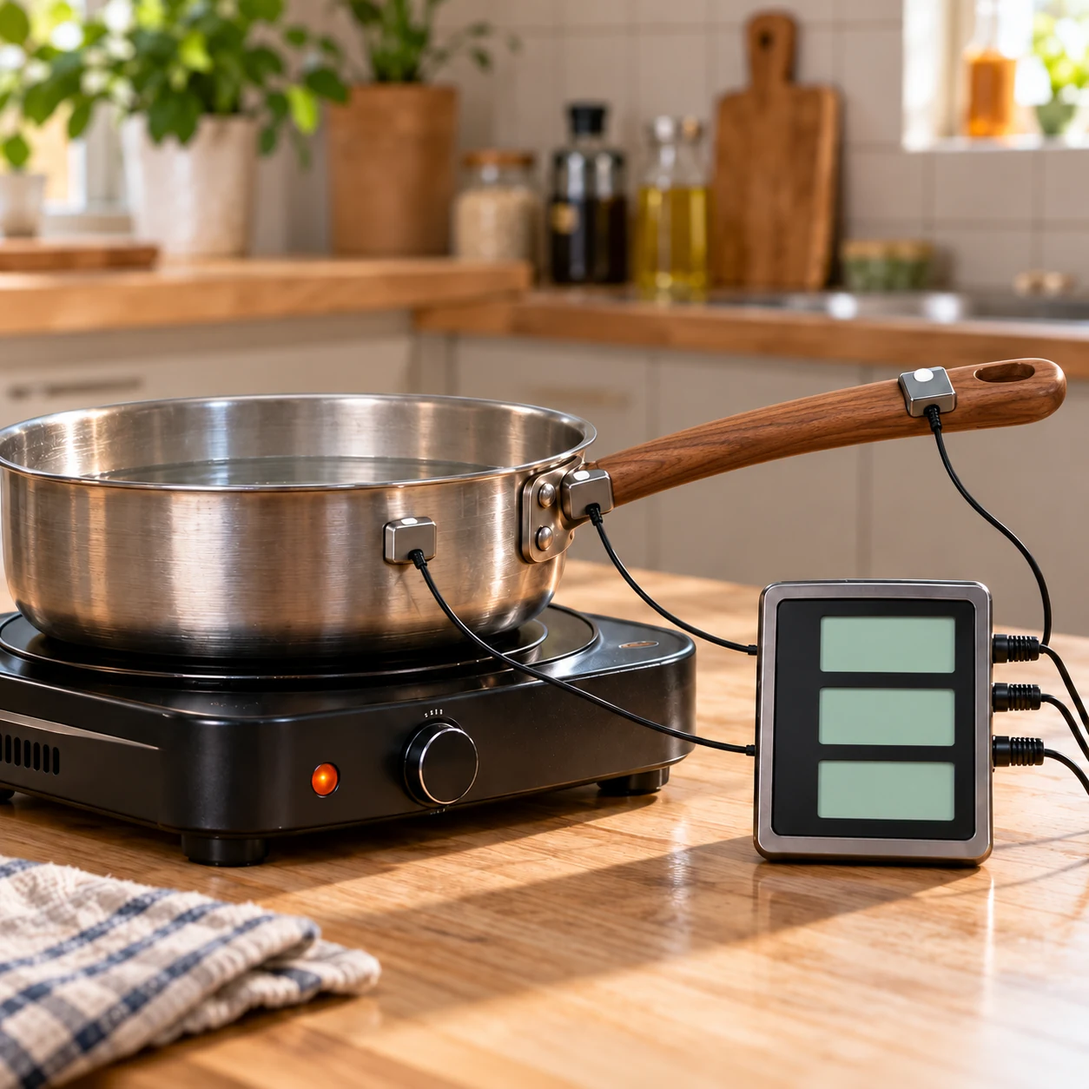
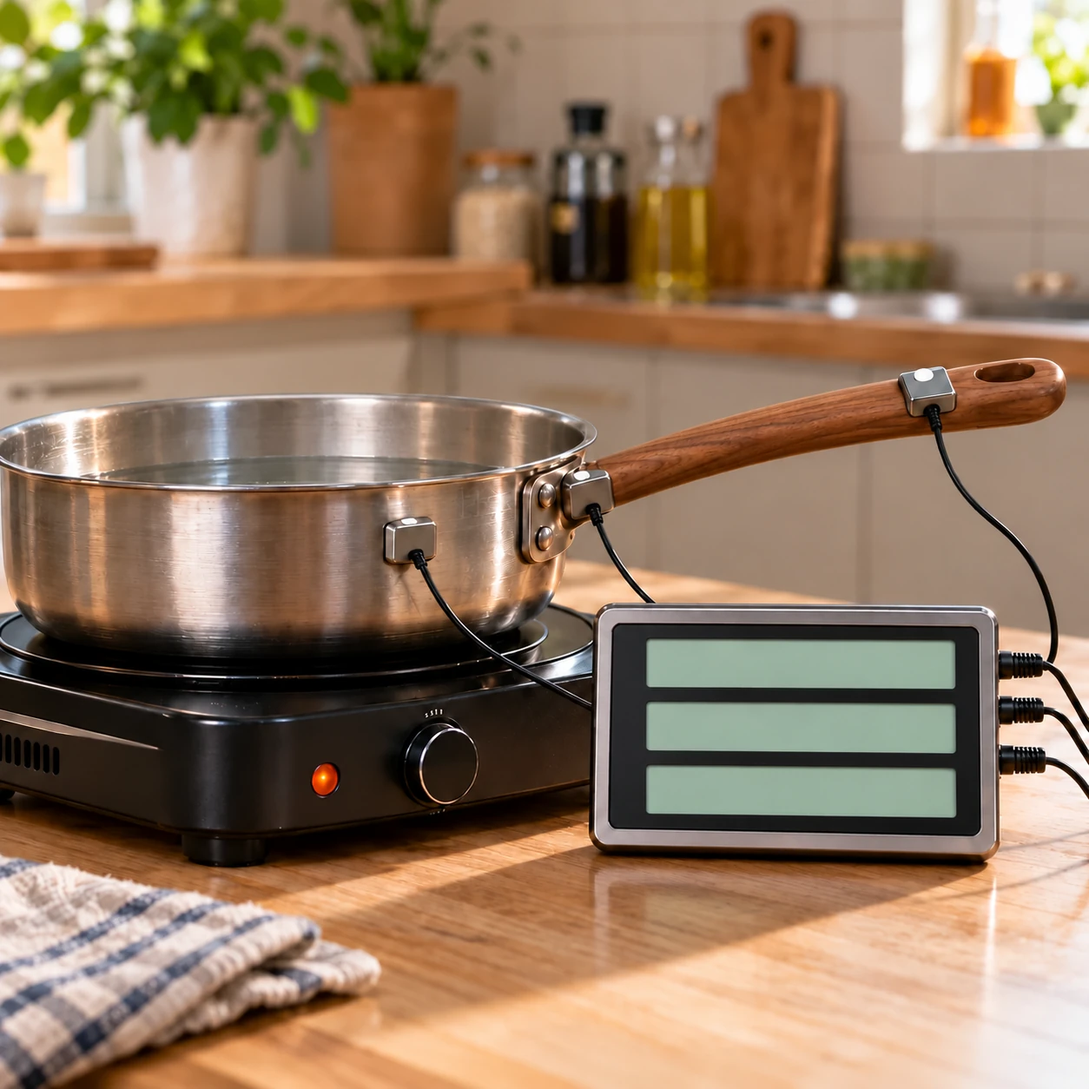
加寬5.2讀數器並直接標示測溫位置

Changed region(s): [[0.3421, 0.5287, 1.0, 0.9019], [0.5287, 0.4043, 0.5598, 0.4354], [0.4976, 0.4354, 0.5287, 0.4665]]

diff --git a/units/5/parts/5.2/index.html b/units/5/parts/5.2/index.html
@@ -1,4 +1,4 @@
-<!doctype html><html lang="zh-Hant"><head><meta charset="utf-8"><meta name="viewport" content="width=device-width,initial-scale=1"><meta name="description" content="從熱水變涼與冷水變暖出發，探索熱傳方向、熱平衡、傳導、對流、輻射與保溫。"><title>熱如何傳遞？｜溫度與熱 5.2</title><link rel="icon" href="data:,"><link rel="stylesheet" href="assets/lesson-base.css"><link rel="stylesheet" href="assets/lesson-layout.css?v=lesson-columns-1"><link rel="stylesheet" href="assets/heat-transfer.css"><link rel="stylesheet" href="assets/direction-lab.css?v=direction-label-colors-8"><link rel="stylesheet" href="assets/balance-lab.css?v=single-scenario-4"><link rel="stylesheet" href="assets/conduction-lab.css?v=pan-controls-paired-6"></head><body><header class="shell masthead"><div class="brand-row"><a class="brand" href="../../index.html">← 溫度與熱</a><span class="crumb">國二上・熱的傳遞</span></div></header><main class="shell lesson"><div class="lesson-layout"><nav class="route" aria-label="學習區塊導覽"><p class="route-label">學習路線</p><div class="route-inner"><a href="#card-01" aria-current="step"><b>01</b><span>同樣的兩杯水，在不同環境會怎麼變？</span></a><a href="#card-02"><b>02</b><span>一熱一冷靠在一起，最後會怎樣？</span></a><a href="#card-03"><b>03</b><span>鍋底受熱，把手為什麼也變暖？</span></a><a href="#card-04"><b>04</b><span>水和空氣怎麼把熱帶走？</span></a><a href="#card-05"><b>05</b><span>沒有碰到，也能傳熱嗎？</span></a><a href="#card-06"><b>06</b><span>怎麼讓熱水慢一點變涼？</span></a><a href="#unit-quiz" class="quiz-nav"><b>✦</b><span>保冷水壺小測</span></a></div></nav><div class="cards"><div class="hero"><div class="hero-copy"><div class="eyebrow">國二上・理化　／　學習內容 5.2</div><h1>熱水變涼了，熱往哪裡去了？</h1><p>小葵剛替兩杯水記下溫度，整理了幾樣器材，熱水和冷水的讀值就變了。她想知道水和周圍發生了什麼事，也想找出讓水溫維持久一點的方法。阿公提議，先追蹤溫度的變化，再找出熱傳遞的路徑。</p></div><figure class="hero-art"><img src="../5.1/assets/temperature-story-opening.webp" alt="小葵和阿公在科學桌前觀察水杯與溫度計，準備比較溫度如何改變。"><figcaption class="hero-caption">量出溫度之後，繼續追蹤熱的方向與路徑。</figcaption></figure></div><div class="section-top"><h2>從溫度變化，找到熱傳遞的路徑</h2><span class="progress-copy">六個學習區塊・一個單元小測</span></div><section class="lesson-card" id="card-01" aria-labelledby="title-01"><div class="card-side"><span class="card-number">01</span><h3>熱往哪裡傳？</h3><span class="card-role">比較水與環境的溫度</span></div><div class="card-main"><h2 id="title-01">同樣的兩杯水，在不同環境會怎麼變？</h2><p class="card-intro">先比較水與環境的溫度，再看熱往哪裡傳。</p><div class="dialogue dialogue--xiaokui"><span class="speaker" aria-label="小葵"></span><p>「在房間裡，熱水變涼、冷水變暖；可是冷水放進冰箱，卻會更冷耶！」</p></div><div class="dialogue"><span class="speaker" aria-label="阿公"></span><p>「同樣是冷水，周圍的溫度不同，變化就不一樣。如果周圍比熱水還熱，又會怎樣呢？」</p></div><div class="lab-panel direction-panel" id="direction-lab" data-environment="25" data-phase="ready" data-playing="false"><header class="direction-scene-heading"><h3><span id="direction-scene-name">房間</span> <span id="direction-environment">25°C</span></h3></header><div class="direction-toolbar"><span class="control-label">環境溫度</span><div class="direction-environments" role="group" aria-label="選擇環境溫度"><button type="button" data-environment="5" aria-label="冷藏室 5°C" aria-pressed="false">5°C</button><button type="button" data-environment="25" aria-label="房間 25°C" aria-pressed="true">25°C</button><button type="button" data-environment="70" aria-label="高溫箱 70°C" aria-pressed="false">70°C</button></div></div><div class="direction-views"><div class="direction-cup-view" data-cup="A"><div class="direction-photo"><img class="direction-scene-image" src="assets/direction-room-glass.webp" width="1944" height="809" alt="房間中自然放置的水杯 A" decoding="async"><svg viewBox="0 0 600 500" class="direction-overlay" role="img" aria-labelledby="direction-thermometer-title-hot direction-hot" aria-describedby="direction-hot-flow"><title id="direction-thermometer-title-hot">水杯 A 的攝氏溫度計，刻度 0 至 80°C，每小格 1°C。</title><text class="direction-cup-letter" x="482" y="347" text-anchor="middle">A</text><g class="direction-flow-group" id="direction-flow-hot" hidden>
+<!doctype html><html lang="zh-Hant"><head><meta charset="utf-8"><meta name="viewport" content="width=device-width,initial-scale=1"><meta name="description" content="從熱水變涼與冷水變暖出發，探索熱傳方向、熱平衡、傳導、對流、輻射與保溫。"><title>熱如何傳遞？｜溫度與熱 5.2</title><link rel="icon" href="data:,"><link rel="stylesheet" href="assets/lesson-base.css"><link rel="stylesheet" href="assets/lesson-layout.css?v=lesson-columns-1"><link rel="stylesheet" href="assets/heat-transfer.css"><link rel="stylesheet" href="assets/direction-lab.css?v=direction-label-colors-8"><link rel="stylesheet" href="assets/balance-lab.css?v=single-scenario-4"><link rel="stylesheet" href="assets/conduction-lab.css?v=wide-meter-7"></head><body><header class="shell masthead"><div class="brand-row"><a class="brand" href="../../index.html">← 溫度與熱</a><span class="crumb">國二上・熱的傳遞</span></div></header><main class="shell lesson"><div class="lesson-layout"><nav class="route" aria-label="學習區塊導覽"><p class="route-label">學習路線</p><div class="route-inner"><a href="#card-01" aria-current="step"><b>01</b><span>同樣的兩杯水，在不同環境會怎麼變？</span></a><a href="#card-02"><b>02</b><span>一熱一冷靠在一起，最後會怎樣？</span></a><a href="#card-03"><b>03</b><span>鍋底受熱，把手為什麼也變暖？</span></a><a href="#card-04"><b>04</b><span>水和空氣怎麼把熱帶走？</span></a><a href="#card-05"><b>05</b><span>沒有碰到，也能傳熱嗎？</span></a><a href="#card-06"><b>06</b><span>怎麼讓熱水慢一點變涼？</span></a><a href="#unit-quiz" class="quiz-nav"><b>✦</b><span>保冷水壺小測</span></a></div></nav><div class="cards"><div class="hero"><div class="hero-copy"><div class="eyebrow">國二上・理化　／　學習內容 5.2</div><h1>熱水變涼了，熱往哪裡去了？</h1><p>小葵剛替兩杯水記下溫度，整理了幾樣器材，熱水和冷水的讀值就變了。她想知道水和周圍發生了什麼事，也想找出讓水溫維持久一點的方法。阿公提議，先追蹤溫度的變化，再找出熱傳遞的路徑。</p></div><figure class="hero-art"><img src="../5.1/assets/temperature-story-opening.webp" alt="小葵和阿公在科學桌前觀察水杯與溫度計，準備比較溫度如何改變。"><figcaption class="hero-caption">量出溫度之後，繼續追蹤熱的方向與路徑。</figcaption></figure></div><div class="section-top"><h2>從溫度變化，找到熱傳遞的路徑</h2><span class="progress-copy">六個學習區塊・一個單元小測</span></div><section class="lesson-card" id="card-01" aria-labelledby="title-01"><div class="card-side"><span class="card-number">01</span><h3>熱往哪裡傳？</h3><span class="card-role">比較水與環境的溫度</span></div><div class="card-main"><h2 id="title-01">同樣的兩杯水，在不同環境會怎麼變？</h2><p class="card-intro">先比較水與環境的溫度，再看熱往哪裡傳。</p><div class="dialogue dialogue--xiaokui"><span class="speaker" aria-label="小葵"></span><p>「在房間裡，熱水變涼、冷水變暖；可是冷水放進冰箱，卻會更冷耶！」</p></div><div class="dialogue"><span class="speaker" aria-label="阿公"></span><p>「同樣是冷水，周圍的溫度不同，變化就不一樣。如果周圍比熱水還熱，又會怎樣呢？」</p></div><div class="lab-panel direction-panel" id="direction-lab" data-environment="25" data-phase="ready" data-playing="false"><header class="direction-scene-heading"><h3><span id="direction-scene-name">房間</span> <span id="direction-environment">25°C</span></h3></header><div class="direction-toolbar"><span class="control-label">環境溫度</span><div class="direction-environments" role="group" aria-label="選擇環境溫度"><button type="button" data-environment="5" aria-label="冷藏室 5°C" aria-pressed="false">5°C</button><button type="button" data-environment="25" aria-label="房間 25°C" aria-pressed="true">25°C</button><button type="button" data-environment="70" aria-label="高溫箱 70°C" aria-pressed="false">70°C</button></div></div><div class="direction-views"><div class="direction-cup-view" data-cup="A"><div class="direction-photo"><img class="direction-scene-image" src="assets/direction-room-glass.webp" width="1944" height="809" alt="房間中自然放置的水杯 A" decoding="async"><svg viewBox="0 0 600 500" class="direction-overlay" role="img" aria-labelledby="direction-thermometer-title-hot direction-hot" aria-describedby="direction-hot-flow"><title id="direction-thermometer-title-hot">水杯 A 的攝氏溫度計，刻度 0 至 80°C，每小格 1°C。</title><text class="direction-cup-letter" x="482" y="347" text-anchor="middle">A</text><g class="direction-flow-group" id="direction-flow-hot" hidden>
  <defs><filter id="direction-pulse-glow-hot" x="-100%" y="-100%" width="300%" height="300%"><feGaussianBlur stdDeviation="3"/></filter></defs>
  <text class="direction-flow-title" id="direction-title-hot" x="200" y="205" text-anchor="middle"></text>
  <text class="direction-flow-caption" id="direction-caption-hot" x="200" y="244" text-anchor="middle"></text>
@@ -211,7 +211,7 @@
       <header class="conduction-heading"><h3>追蹤鍋具的傳熱路徑</h3><p>室溫 25°C・相同加熱條件</p></header>
       <div class="conduction-layout">
         <div class="conduction-photo" id="conduction-apparatus">
-          <img id="conduction-scene" src="assets/conduction-metal.webp" width="1254" height="1254" alt="電熱板上的鍋具，金屬把手伸在加熱區外；三個接觸式探頭連到讀數器。" decoding="async">
+          <img id="conduction-scene" src="assets/conduction-metal.webp?v=wide-meter-7" width="1254" height="1254" alt="電熱板上的鍋具，金屬把手伸在加熱區外；三個接觸式探頭連到讀數器。" decoding="async">
           <svg class="conduction-overlay" viewBox="0 0 1000 1000" role="img" aria-labelledby="conduction-reading-title conduction-readings">
             <title id="conduction-reading-title">三點測溫：鍋身、金屬接頭、握柄遠端</title>
             <desc id="conduction-readings">三處皆為 25.0°C。</desc>
@@ -221,12 +221,8 @@
             </defs>
             <g class="conduction-heater-lamp" aria-hidden="true"><ellipse cx="299" cy="716" rx="13.5" ry="16" fill="#1b211e" stroke="#1b211e" stroke-width="2"/><ellipse class="conduction-lamp-lens" cx="299" cy="716" rx="11.5" ry="14"/><ellipse cx="296" cy="710" rx="2.5" ry="3.5" fill="#fff" opacity=".18"/></g>
             <g class="conduction-heater-leader" aria-hidden="true" fill="none"><path d="M402 750V805" stroke="#fffdf0" stroke-width="6"/><path d="M402 750V805" stroke="#315b40" stroke-width="2"/><circle cx="402" cy="750" r="4" fill="#315b40" stroke="#fffdf0" stroke-width="2"/></g>
-            <g class="conduction-leaders" fill="none"><path d="M240 376L376 480"/><path d="M545 294L538 431"/><path d="M846 240L849 337"/></g>
-            <g class="conduction-sensor-label"><rect x="145" y="339" width="160" height="40" rx="12"/><circle cx="169" cy="359" r="14"/><text class="conduction-label-number" x="169" y="366">1</text><text x="192" y="367">鍋身</text></g>
-            <g class="conduction-sensor-label"><rect x="445" y="254" width="207" height="40" rx="12"/><circle cx="469" cy="274" r="14"/><text class="conduction-label-number" x="469" y="281">2</text><text x="492" y="282">把手接頭</text></g>
-            <g class="conduction-sensor-label"><rect x="749" y="200" width="207" height="40" rx="12"/><circle cx="773" cy="220" r="14"/><text class="conduction-label-number" x="773" y="227">3</text><text x="796" y="228">握柄遠端</text></g>
-            <g class="conduction-channel-numbers"><circle cx="730" cy="592" r="12"/><circle cx="730" cy="658" r="12"/><circle cx="730" cy="725" r="12"/><text x="730" y="599">1</text><text x="730" y="665">2</text><text x="730" y="732">3</text></g>
-            <g class="conduction-digital"><text id="conduction-temp-body" x="815" y="602">25.0°C</text><text id="conduction-temp-joint" x="815" y="668">25.0°C</text><text id="conduction-temp-tip" x="815" y="735">25.0°C</text></g>
+            <g class="conduction-meter-labels"><text x="612" y="610">鍋身</text><text x="612" y="667">把手接頭</text><text x="612" y="726">握柄遠端</text></g>
+            <g class="conduction-digital"><text id="conduction-temp-body" x="862" y="610">25.0°C</text><text id="conduction-temp-joint" x="862" y="667">25.0°C</text><text id="conduction-temp-tip" x="862" y="726">25.0°C</text></g>
             <rect id="conduction-drop-zone" x="481" y="411" width="118" height="116" rx="25"/>
           </svg>
           <div class="conduction-scene-controls" role="group" aria-label="電熱板操作"><button type="button" class="action conduction-heater-control" id="conduction-play" aria-pressed="false">開始加熱</button><button type="button" class="secondary conduction-reset-control" id="conduction-reset">重來</button></div>
@@ -235,13 +231,13 @@
         <aside class="conduction-detail">
           <h4>接頭局部放大</h4>
           <svg class="conduction-joint" viewBox="440 350 290 180" role="img" aria-label="鍋身的金屬接頭與把手直接接觸，短光跡表示熱沿材料傳遞。">
-            <image class="conduction-detail-image" href="assets/conduction-metal.webp" width="1000" height="1000"/>
+            <image class="conduction-detail-image" href="assets/conduction-metal.webp?v=wide-meter-7" width="1000" height="1000"/>
             <g id="conduction-flow" fill="none" stroke-linecap="round" stroke-linejoin="round"><g class="conduction-pulse" data-offset="0"><path d="M-5-8 3 0-5 8"/></g><g class="conduction-pulse" data-offset="23"><path d="M-5-8 3 0-5 8"/></g><g class="conduction-pulse" data-offset="46"><path d="M-5-8 3 0-5 8"/></g></g>
           </svg>
           <ol class="conduction-steps"><li><b>鍋身先升溫</b><span>鍋底受熱，鍋身溫度上升。</span></li><li><b>接頭接著升溫</b><span>熱經由直接接觸，傳到金屬接頭。</span></li><li><b>遠端較晚變暖</b><span id="conduction-tip-note">熱再沿把手向外傳遞。</span></li></ol>
           <div class="conduction-materials"><h4>比較把手材質</h4><div role="group" aria-label="換裝把手；可拖曳到鍋具接頭，也可點選">
-            <button type="button" class="conduction-handle" data-handle="metal" aria-pressed="true"><svg viewBox="490 310 500 180" aria-hidden="true"><image href="assets/conduction-metal.webp" width="1000" height="1000"/></svg><span>金屬柄</span></button>
-            <button type="button" class="conduction-handle" data-handle="wood" aria-pressed="false"><svg viewBox="490 310 500 180" aria-hidden="true"><image href="assets/conduction-wood.webp" width="1000" height="1000"/></svg><span>木柄</span></button>
+            <button type="button" class="conduction-handle" data-handle="metal" aria-pressed="true"><svg viewBox="490 310 500 180" aria-hidden="true"><image href="assets/conduction-metal.webp?v=wide-meter-7" width="1000" height="1000"/></svg><span>金屬柄</span></button>
+            <button type="button" class="conduction-handle" data-handle="wood" aria-pressed="false"><svg viewBox="490 310 500 180" aria-hidden="true"><image href="assets/conduction-wood.webp?v=wide-meter-7" width="1000" height="1000"/></svg><span>木柄</span></button>
           </div><p>拖曳把手到接頭，換裝比較<br><small>也可直接點選；換裝後從 25°C 重來</small></p></div>
         </aside>
       </div>
@@ -254,4 +250,4 @@
 <section class="lesson-card" id="card-04" aria-labelledby="title-04"><div class="card-side"><span class="card-number">04</span><h3>熱對流</h3><span class="card-role">流動的水與空氣傳熱</span></div><div class="card-main"><h2 id="title-04">水和空氣怎麼把熱帶走？</h2><p class="card-intro">觀察流動的液體與氣體如何攜帶能量，形成對流。</p><div class="dialogue dialogue--xiaokui"><span class="speaker" aria-label="小葵"></span><p>「這次水和空氣本身也在動，它們會把能量帶到別處嗎？」</p></div><div class="dialogue"><span class="speaker" aria-label="阿公"></span><p>「追蹤受熱部分的上升，看看周圍的流體怎麼補進來。」</p></div><div class="lab-panel" id="convection-lab"><div class="panel-toolbar"><span class="control-label">觀察流動的物質</span><div class="segmented" role="group" aria-label="選擇流體"><button type="button" data-medium="water" aria-pressed="true">水</button><button type="button" data-medium="air" aria-pressed="false">空氣</button></div></div><svg class="scene-svg" viewBox="0 0 900 350" role="img" aria-label="下方受熱的流體形成自然對流循環"><rect id="convection-fluid" x="120" y="20" width="660" height="280" rx="25" fill="#e0eef2" stroke="#a6b9b6" stroke-width="2"/><path id="convection-left" d="M450 260C400 220 430 100 380 70C300 20 190 55 205 150C215 240 300 285 450 260Z" fill="none" stroke="#98b8ba" stroke-width="3" stroke-dasharray="8 8"/><path id="convection-right" d="M450 260C500 220 470 100 520 70C600 20 710 55 695 150C685 240 600 285 450 260Z" fill="none" stroke="#98b8ba" stroke-width="3" stroke-dasharray="8 8"/><circle data-flow-particle="left" data-phase="0.0" r="7" fill="#c8783d"/><circle data-flow-particle="left" data-phase="0.16666666666666666" r="7" fill="#c8783d"/><circle data-flow-particle="left" data-phase="0.3333333333333333" r="7" fill="#c8783d"/><circle data-flow-particle="left" data-phase="0.5" r="7" fill="#c8783d"/><circle data-flow-particle="left" data-phase="0.6666666666666666" r="7" fill="#c8783d"/><circle data-flow-particle="left" data-phase="0.8333333333333334" r="7" fill="#c8783d"/><circle data-flow-particle="right" data-phase="0.0" r="7" fill="#6d9cac"/><circle data-flow-particle="right" data-phase="0.16666666666666666" r="7" fill="#6d9cac"/><circle data-flow-particle="right" data-phase="0.3333333333333333" r="7" fill="#6d9cac"/><circle data-flow-particle="right" data-phase="0.5" r="7" fill="#6d9cac"/><circle data-flow-particle="right" data-phase="0.6666666666666666" r="7" fill="#6d9cac"/><circle data-flow-particle="right" data-phase="0.8333333333333334" r="7" fill="#6d9cac"/><path d="M445 170V95L431 113M445 95 459 113M215 115V185L201 167M215 185 229 167M690 115V185L676 167M690 185 704 167" fill="none" stroke="#527c7f" stroke-width="5" stroke-linecap="round" stroke-linejoin="round"/><rect x="330" y="301" width="240" height="14" rx="7" fill="#d68b4a"/><text x="450" y="342" text-anchor="middle">下方受熱</text></svg><p class="observation" id="convection-note">水受熱後，較暖、密度較小的部分上升，周圍較冷的水補入。</p><div class="lab-controls"><button class="action" type="button" id="convection-play">開始觀察</button><button class="secondary" type="button" id="convection-reset">重來</button></div><p class="panel-note">箭頭與圓點表示流體的運動，用來觀察循環；不表示實際流速。</p></div><div class="dialogue dialogue--xiaokui"><span class="speaker" aria-label="小葵"></span><p>「水和空氣會形成循環，流動時也帶著能量移動。」</p></div><div class="dialogue"><span class="speaker" aria-label="阿公"></span><p>「這是對流。太陽和地球之間還有太空，能量又怎麼傳來呢？」</p></div></div></section>
 <section class="lesson-card" id="card-05" aria-labelledby="title-05"><div class="card-side"><span class="card-number">05</span><h3>熱輻射</h3><span class="card-role">不接觸也能傳熱</span></div><div class="card-main"><h2 id="title-05">沒有碰到，也能傳熱嗎？</h2><p class="card-intro">輻射不需要物質作為介質，也能傳遞能量。</p><div class="dialogue dialogue--xiaokui"><span class="speaker" aria-label="小葵"></span><p>「太空裡沒有空氣，太陽的能量怎麼到達地球？」</p></div><div class="dialogue"><span class="speaker" aria-label="阿公"></span><p>「觀察輻射的方向，再加入遮擋板比較直接照射的差異。」</p></div><div class="lab-panel" id="radiation-lab"><svg class="scene-svg space-scene" viewBox="0 0 900 300" role="img" aria-label="太陽透過輻射向地球傳遞能量"><defs><radialGradient id="radiation-sun"><stop stop-color="#fff4aa"/><stop offset=".7" stop-color="#f5bd4d"/><stop offset="1" stop-color="#df773b"/></radialGradient><radialGradient id="radiation-earth" cx="30%" cy="25%"><stop stop-color="#96d0e5"/><stop offset="1" stop-color="#25677a"/></radialGradient></defs><rect width="900" height="300" rx="16" fill="#1d3849"/><g fill="#c6d9dd" opacity=".6"><circle cx="75" cy="50" r="2"/><circle cx="340" cy="35" r="2"/><circle cx="595" cy="260" r="2"/><circle cx="810" cy="65" r="2"/><circle cx="290" cy="250" r="2"/></g><circle cx="165" cy="150" r="65" fill="url(#radiation-sun)"/><g id="radiation-rays" fill="none" stroke="#f0bd67" stroke-width="4" stroke-dasharray="18 12"><path data-radiation-ray d="M225 90H675"/><path data-radiation-ray d="M225 130H675"/><path data-radiation-ray d="M225 170H675"/><path data-radiation-ray d="M225 210H675"/></g><circle cx="730" cy="150" r="49" fill="url(#radiation-earth)"/><path d="M710 108Q730 121 721 139L742 150L732 180L715 184L703 158L716 147L701 127Z" fill="#8caf80"/><rect id="radiation-shield" x="440" y="55" width="20" height="190" rx="5" fill="#b8c4c2" stroke="#f8f6dc" stroke-width="2" hidden/><text x="165" y="258" text-anchor="middle" fill="#fff8e4">太陽</text><text x="730" y="258" text-anchor="middle" fill="#fff8e4">地球</text></svg><div class="lab-controls"><button id="radiation-play" class="action" type="button">開始觀察</button><button id="radiation-shield-toggle" class="secondary" type="button" aria-pressed="false">加入遮擋板</button><button id="radiation-reset" class="secondary" type="button">重來</button></div><p id="radiation-note" class="observation">輻射能穿越沒有空氣的太空，將能量傳向地球。</p><p class="panel-note">圖中比較直接照射；遮擋物也可能吸熱與再放熱。天體大小、距離為示意。</p></div><div class="dialogue dialogue--xiaokui"><span class="speaker" aria-label="小葵"></span><p>「原來不需要接觸，也不需要空氣作為介質，能量也能傳遞。」</p></div><div class="dialogue"><span class="speaker" aria-label="阿公"></span><p>「這就是輻射。現在找到了三種方式，試著減慢它們，讓水溫維持久一點。」</p></div></div></section>
 <section class="lesson-card" id="card-06" aria-labelledby="title-06"><div class="card-side"><span class="card-number">06</span><h3>保溫與保冷</h3><span class="card-role">減慢不同路徑的熱交換</span></div><div class="card-main"><h2 id="title-06">怎麼讓熱水慢一點變涼？</h2><p class="card-intro">整合傳導、對流與輻射，理解保溫與保冷的共同原理。</p><div class="dialogue dialogue--xiaokui"><span class="speaker" aria-label="小葵"></span><p>「如果讓熱交換慢一點，熱水就能保溫久一點吧？」</p></div><div class="dialogue"><span class="speaker" aria-label="阿公"></span><p>「一次改一種設計，看看主要影響哪條傳熱路徑。」</p></div><div class="lab-panel" id="insulation-lab"><fieldset class="design-options"><legend>一次選一種設計，比較影響的路徑</legend><label><input type="checkbox" id="insulation-wall"> 杯壁隔熱</label><label><input type="checkbox" id="insulation-air"> 限制空氣流動</label><label><input type="checkbox" id="insulation-reflect"> 反射表面</label></fieldset><svg class="scene-svg" viewBox="0 0 900 320" role="img" aria-label="一般杯與保溫設計杯的降溫比較"><defs><linearGradient id="insulation-glass"><stop stop-color="#879eaa" stop-opacity=".65"/><stop offset=".12" stop-color="#fff" stop-opacity=".8"/><stop offset=".3" stop-color="#e9f3f3" stop-opacity=".12"/><stop offset=".75" stop-color="#fff" stop-opacity=".2"/><stop offset=".92" stop-color="#fff" stop-opacity=".9"/><stop offset="1" stop-color="#7b99a5" stop-opacity=".6"/></linearGradient><linearGradient id="insulation-wood" x2="0" y2="1"><stop stop-color="#f0ddc5"/><stop offset="1" stop-color="#d1a679"/></linearGradient></defs><rect width="900" height="320" fill="#f1f4e9"/><rect y="240" width="900" height="80" fill="url(#insulation-wood)"/><g transform="translate(280,175)"><ellipse cy="107" rx="82" ry="10" fill="#685b46" opacity=".1"/><path d="M-70-3Q0 8 70-3L64 86Q0 104-64 86Z" fill="#e5ad74" fill-opacity=".38"/><ellipse cy="-3" rx="69" ry="8" fill="#e5ad74" fill-opacity=".22" stroke="#9cb8bc"/><path d="M-73-80Q0-91 73-80L66 91Q0 111-66 91Z" fill="url(#insulation-glass)" stroke="#8e9d9d" stroke-width="2"/><ellipse cy="-80" rx="73" ry="9" fill="#fff" fill-opacity=".25" stroke="#8c9d9e" stroke-width="2"/><path d="M-61-66-56 77M55-65 52 78" stroke="#fff" stroke-opacity=".8" stroke-width="5"/><path d="M-60 91Q0 107 60 91" fill="none" stroke="#faffff" stroke-width="4"/></g><g transform="translate(620,175)"><ellipse cy="107" rx="82" ry="10" fill="#685b46" opacity=".1"/><path d="M-70-3Q0 8 70-3L64 86Q0 104-64 86Z" fill="#e5ad74" fill-opacity=".38"/><ellipse cy="-3" rx="69" ry="8" fill="#e5ad74" fill-opacity=".22" stroke="#9cb8bc"/><path d="M-73-80Q0-91 73-80L66 91Q0 111-66 91Z" fill="url(#insulation-glass)" stroke="#8e9d9d" stroke-width="2"/><ellipse cy="-80" rx="73" ry="9" fill="#fff" fill-opacity=".25" stroke="#8c9d9e" stroke-width="2"/><path d="M-61-66-56 77M55-65 52 78" stroke="#fff" stroke-opacity=".8" stroke-width="5"/><path d="M-60 91Q0 107 60 91" fill="none" stroke="#faffff" stroke-width="4"/></g><path d="M207 93Q280 76 353 93M547 93Q620 76 693 93" fill="none" stroke="#829893" stroke-width="8" stroke-linecap="round"/><path id="insulation-coat" d="M542 137L549 268Q620 292 691 268L698 137" fill="none" stroke="#96ac7f" stroke-width="12" hidden/><path id="insulation-silver" d="M552 144 557 260M684 144 679 260" stroke="#f9f8e8" stroke-width="7" hidden/></svg><div class="readout-grid"><div><span>一般杯</span><strong id="insulation-base-temp">60.0°C</strong></div><div><span>你的設計</span><strong id="insulation-design-temp">60.0°C</strong></div></div><div class="pathways"><span>傳導 <b id="insulation-conduction">原先</b></span><span>對流 <b id="insulation-convection">原先</b></span><span>輻射 <b id="insulation-radiation">原先</b></span></div><div class="lab-controls"><button class="action" type="button" id="insulation-play">開始觀察</button><button class="secondary" type="button" id="insulation-reset">重來</button></div><p class="panel-note">兩杯初始 60°C、環境 25°C，均已加蓋。各路徑以簡化模型比較；更改設計會回到相同起點。</p></div><div class="dialogue dialogue--xiaokui"><span class="speaker" aria-label="小葵"></span><p>「不同設計能減少不同路徑的傳熱；生活中也可能同時有好幾種方式。」</p></div><div class="dialogue"><span class="speaker" aria-label="阿公"></span><p>「保溫和保冷都在減慢熱交換。換成保冷水壺，這次由你判斷。」</p></div></div></section>
-<section class="quiz" id="unit-quiz" aria-labelledby="quiz-title"><div class="quiz-head"><span class="quiz-mark" aria-hidden="true">✦</span><div><p class="quiz-kicker">單元小測</p><h2 id="quiz-title">幫小葵找出保冷水壺的漏熱路徑</h2><p>水壺裡是 10°C 的冷水，外面是 25°C 的環境，陽光正照在水壺上。</p></div></div><div class="quiz-body"><div class="dialogue dialogue--xiaokui"><span class="speaker" aria-label="小葵"></span><p>「這次要讓冷水維持低溫，我要先找出熱從哪裡進來。」</p></div><div class="dialogue"><span class="speaker" aria-label="阿公"></span><p>「先比較溫度，再分辨金屬、流動空氣和陽光這幾條路。」</p></div><form id="heat-quiz"><fieldset class="quiz-question"><legend>熱主要往哪裡傳？</legend><label class="quiz-option"><input type="radio" name="direction" value="outside">從較暖的環境傳向較冷的水壺內部</label><label class="quiz-option"><input type="radio" name="direction" value="inside">從冷水傳向較暖的環境</label></fieldset><div class="quiz-routes"><label>沿金屬瓶蓋與瓶壁傳遞<select name="metal" required><option value="">選擇方式</option><option value="conduction">傳導</option><option value="convection">對流</option><option value="radiation">輻射</option></select></label><label>瓶身周圍流動的空氣攜帶能量<select name="air" required><option value="">選擇方式</option><option value="conduction">傳導</option><option value="convection">對流</option><option value="radiation">輻射</option></select></label><label>陽光直接照射水壺<select name="sun" required><option value="">選擇方式</option><option value="conduction">傳導</option><option value="convection">對流</option><option value="radiation">輻射</option></select></label></div><div class="quiz-actions"><button type="submit" class="action">核對判斷</button><button type="reset" class="secondary">重新作答</button></div><div id="heat-quiz-result" class="quiz-result" role="status" hidden></div></form></div></section><p class="lesson-model-note">互動用來比較熱傳方向與方式；時間、顏色與速率為教學示意。</p><a class="end-link" href="../../index.html">回到溫度與熱單元總覽</a></div></div></main><footer class="shell foot">國二上自然科學・溫度與熱｜學習內容 5.2</footer><script src="assets/heat-transfer.js?v=pan-handles-1" defer></script><script src="assets/direction-lab.js?v=direction-continuous-flow-7" defer></script><script type="module" src="assets/balance-lab.js?v=single-scenario-4"></script><script type="module" src="assets/conduction-lab.js?v=pan-heating-start-4"></script></body></html>
+<section class="quiz" id="unit-quiz" aria-labelledby="quiz-title"><div class="quiz-head"><span class="quiz-mark" aria-hidden="true">✦</span><div><p class="quiz-kicker">單元小測</p><h2 id="quiz-title">幫小葵找出保冷水壺的漏熱路徑</h2><p>水壺裡是 10°C 的冷水，外面是 25°C 的環境，陽光正照在水壺上。</p></div></div><div class="quiz-body"><div class="dialogue dialogue--xiaokui"><span class="speaker" aria-label="小葵"></span><p>「這次要讓冷水維持低溫，我要先找出熱從哪裡進來。」</p></div><div class="dialogue"><span class="speaker" aria-label="阿公"></span><p>「先比較溫度，再分辨金屬、流動空氣和陽光這幾條路。」</p></div><form id="heat-quiz"><fieldset class="quiz-question"><legend>熱主要往哪裡傳？</legend><label class="quiz-option"><input type="radio" name="direction" value="outside">從較暖的環境傳向較冷的水壺內部</label><label class="quiz-option"><input type="radio" name="direction" value="inside">從冷水傳向較暖的環境</label></fieldset><div class="quiz-routes"><label>沿金屬瓶蓋與瓶壁傳遞<select name="metal" required><option value="">選擇方式</option><option value="conduction">傳導</option><option value="convection">對流</option><option value="radiation">輻射</option></select></label><label>瓶身周圍流動的空氣攜帶能量<select name="air" required><option value="">選擇方式</option><option value="conduction">傳導</option><option value="convection">對流</option><option value="radiation">輻射</option></select></label><label>陽光直接照射水壺<select name="sun" required><option value="">選擇方式</option><option value="conduction">傳導</option><option value="convection">對流</option><option value="radiation">輻射</option></select></label></div><div class="quiz-actions"><button type="submit" class="action">核對判斷</button><button type="reset" class="secondary">重新作答</button></div><div id="heat-quiz-result" class="quiz-result" role="status" hidden></div></form></div></section><p class="lesson-model-note">互動用來比較熱傳方向與方式；時間、顏色與速率為教學示意。</p><a class="end-link" href="../../index.html">回到溫度與熱單元總覽</a></div></div></main><footer class="shell foot">國二上自然科學・溫度與熱｜學習內容 5.2</footer><script src="assets/heat-transfer.js?v=pan-handles-1" defer></script><script src="assets/direction-lab.js?v=direction-continuous-flow-7" defer></script><script type="module" src="assets/balance-lab.js?v=single-scenario-4"></script><script type="module" src="assets/conduction-lab.js?v=wide-meter-7"></script></body></html>

diff --git a/units/5/parts/5.2/assets/conduction-lab.css b/units/5/parts/5.2/assets/conduction-lab.css
@@ -10,14 +10,8 @@
 .conduction-photo{position:relative;align-self:start;overflow:hidden;border-radius:13px;background:#e5dfcf;isolation:isolate}
 .conduction-photo>img{display:block;width:100%;height:auto;aspect-ratio:1;object-fit:cover}
 .conduction-overlay{position:absolute;inset:0;width:100%;height:100%;pointer-events:none}
-.conduction-leaders{stroke:#fffdf5;stroke-width:3;filter:drop-shadow(0 1px 2px #36250d88)}
-.conduction-sensor-label rect{fill:#fffffff2;stroke:#e1e6d7;stroke-width:1}
-.conduction-sensor-label circle{fill:#224d3c}
-.conduction-sensor-label text{fill:#19372b;font-size:24px;font-weight:700;font-family:system-ui,sans-serif}
-.conduction-sensor-label .conduction-label-number{fill:#fff;text-anchor:middle;font-size:23px}
-.conduction-channel-numbers circle{fill:#f0f5e5}
-.conduction-channel-numbers text{fill:#203a2b;text-anchor:middle;font-size:20px;font-weight:700}
-.conduction-digital text{font-family:'Courier New',monospace;font-size:25px;font-weight:700;fill:#203a30;text-anchor:middle;font-variant-numeric:tabular-nums;letter-spacing:-1.5px}
+.conduction-meter-labels text{font-family:system-ui,sans-serif;font-size:28px;font-weight:650;fill:#213e32;dominant-baseline:central}
+.conduction-digital text{font-family:'Courier New',monospace;font-size:31px;font-weight:700;fill:#203a30;text-anchor:end;dominant-baseline:central;font-variant-numeric:tabular-nums;letter-spacing:-.5px}
 #conduction-drop-zone{fill:#e5f3d130;stroke:#effbdc;stroke-width:4;stroke-dasharray:9 6;opacity:0}
 #conduction-lab[data-dragging="true"] #conduction-drop-zone{opacity:1}
 #conduction-lab[data-drop-valid="true"] #conduction-drop-zone{fill:#d8efb97a;stroke:#2e673d;stroke-dasharray:none}

diff --git a/units/5/parts/5.2/assets/conduction-lab.js b/units/5/parts/5.2/assets/conduction-lab.js
@@ -55,7 +55,7 @@ if (root) {
   function selectMaterial(material) {
     if (material === state.material) return;
     state.material = material;
-    const path = `assets/conduction-${material}.webp`;
+    const path = `assets/conduction-${material}.webp?v=wide-meter-7`;
     $('conduction-scene').src = path;
     $('conduction-scene').alt = `電熱板上的鍋具，${material === 'wood' ? '木製' : '金屬'}握柄伸在加熱區外；三個接觸式探頭連到讀數器。`;
     root.querySelector('.conduction-detail-image').setAttribute('href', path);
@@ -103,6 +103,6 @@ if (root) {
   $('conduction-reset').addEventListener('click', reset);
   document.addEventListener('visibilitychange', () => { if (document.hidden) { if (drag?.moved) suppressClickUntil = performance.now() + 450; clearDrag(); state.playing = false; stop(); render(); } });
   // Warm the alternative texture before the first material change.
-  const preload = new Image(); preload.src = 'assets/conduction-wood.webp';
+  const preload = new Image(); preload.src = 'assets/conduction-wood.webp?v=wide-meter-7';
   render();
 }

diff --git a/units/5/parts/5.2/assets/README.md b/units/5/parts/5.2/assets/README.md
@@ -174,3 +174,14 @@
 ### 第三區：移除下方說明，集中場景操作（2026-10-29）
 
 依使用者要求，移除下方綠底結論列與可見狀態／模型註記，把重來移到圖片內「開始加熱」右側，兩者間距 8px。加熱仍對準電熱板旋鈕，按鈕隨場景定位；狀態播報保留為僅供讀屏的文字。互動程式與溫度模型不變，本輪沒有新增或執行測試套件。
+
+
+### 第三區：加寬讀數器與直接標示（2026-10-29）
+
+依使用者要求，三列 LCD 直接並排顯示「鍋身／把手接頭／握柄遠端」及即時溫度，移除場景上方三組編號標籤、引線及讀數器的 1／2／3 對照。儀器本體與螢幕加寬，位置名稱採 28px、溫度採 31px 的原生 SVG 文字，與照片中的寬螢幕對齊；讀數依原模型更新。
+
+- `conduction-metal.webp` 最新原圖：`/workspace/generated_images/exec-926dbd27-c60d-4d87-af83-58f6506a006d.png`。
+- `conduction-wood.webp` 最新原圖：`/workspace/generated_images/exec-d3d66ee3-e656-4271-b8f8-6f0f00ada590.png`。
+- 兩張均由 image_gen 編輯既有場景，保留 1254×1254，同構圖的寬三通道讀數器；僅轉換 WebP 編碼，未裁切修圖。
+- HTML、CSS、控制器及圖片加上 `wide-meter-7` 版本，換材質與預載使用相同圖片版本。熱模型與加熱／重來的操作邏輯不變。
+- 本輪以實際瀏覽器預覽兩種材質與桌機／筆電畫面，沒有新增或執行測試套件。
